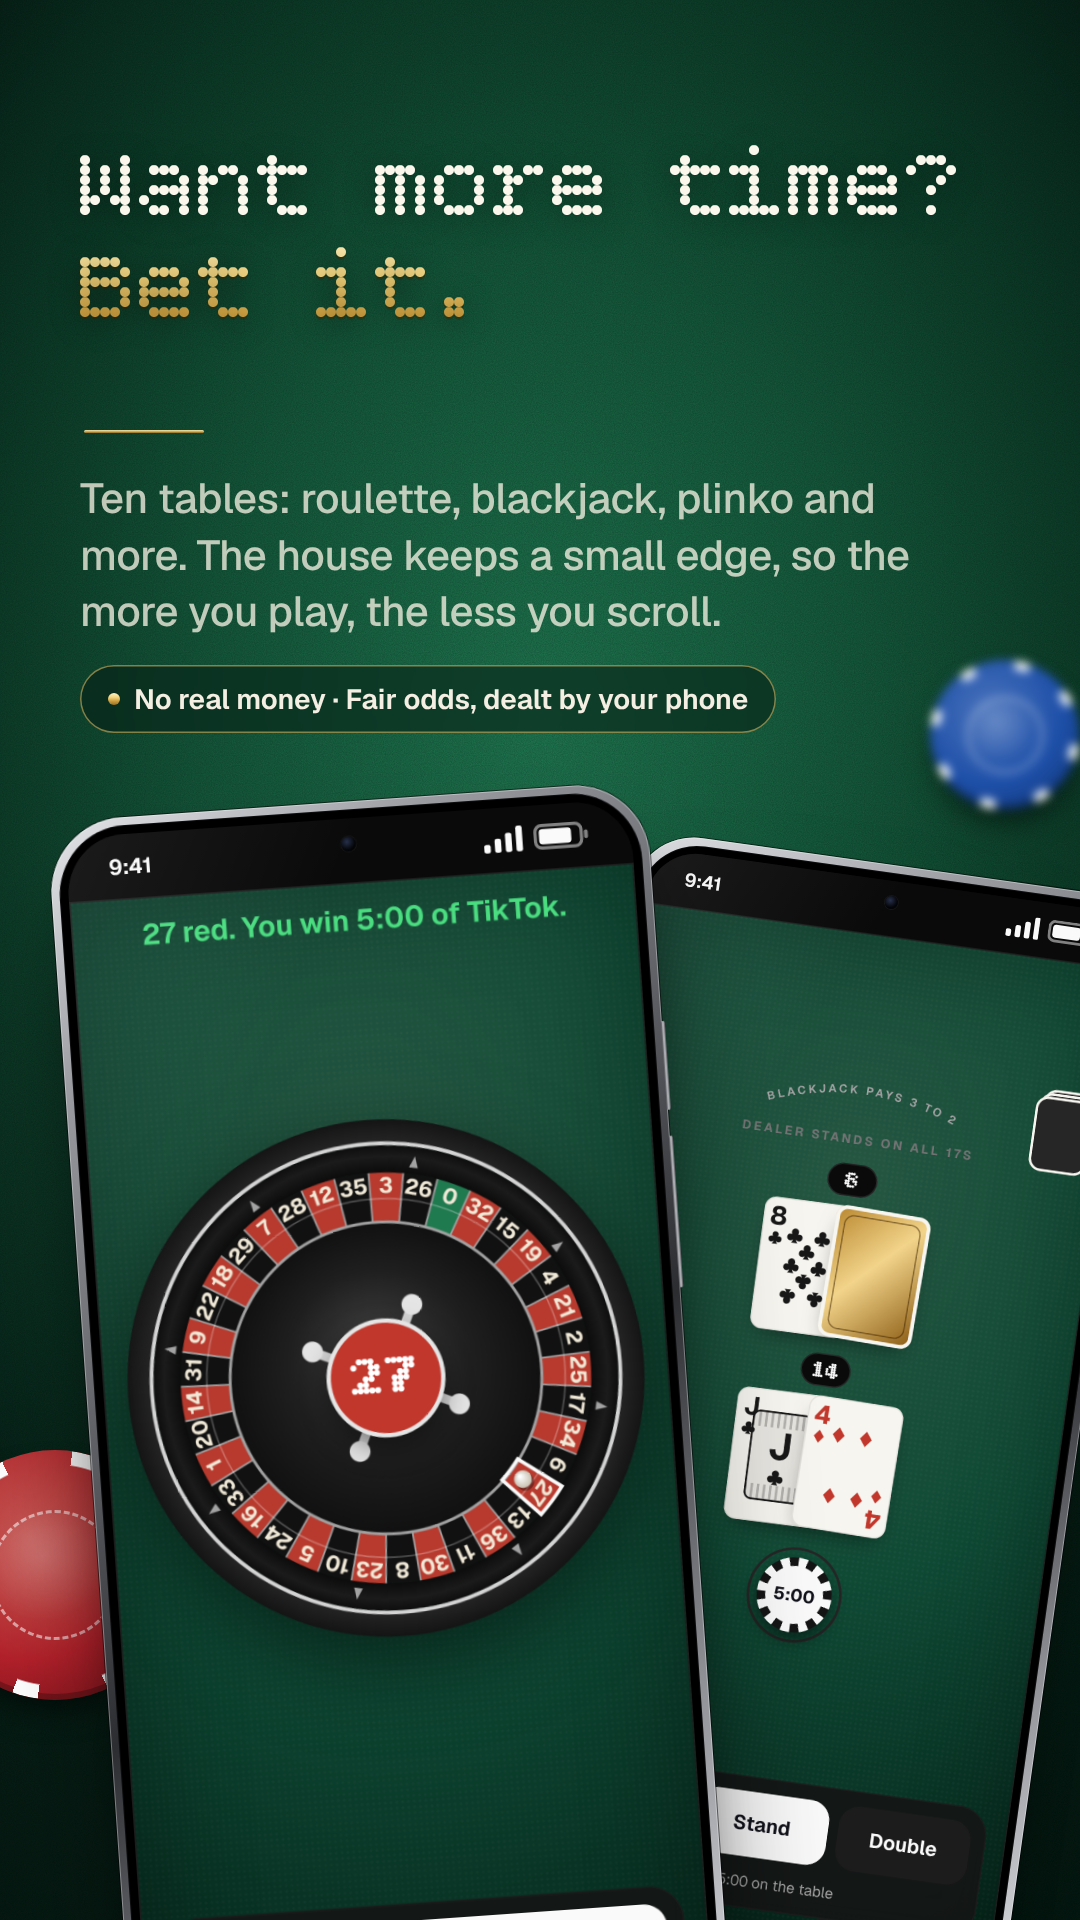
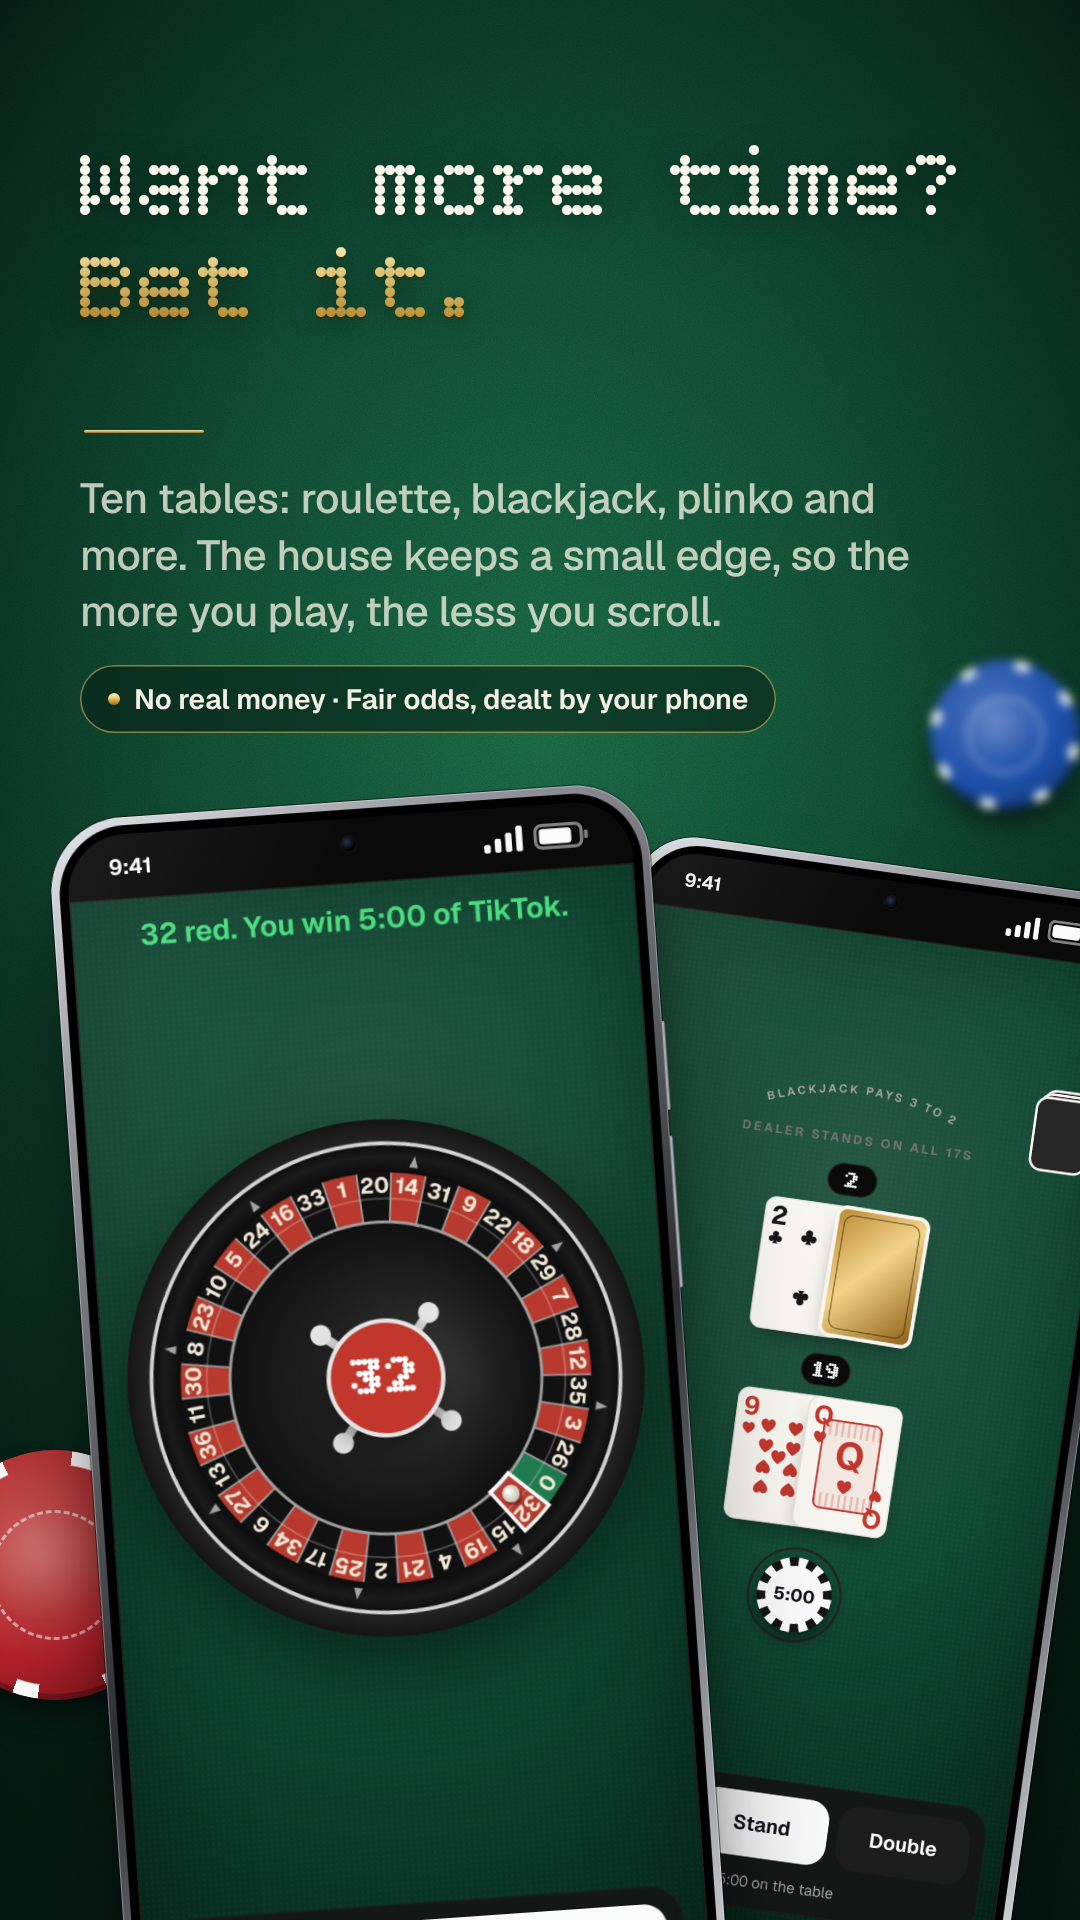
fix: feature graphic text never overlaps; phones fill the frame
Logo, headline and line stacked in one column (headline on two lines). The roulette phone is
larger and runs off the top and bottom so the wheel fills the shot; Home behind it.

Claude-Session: https://claude.ai/code/session_01AKm8sK4KsnpZhCSW1Thtpz

diff --git a/scripts/store-play.js b/scripts/store-play.js
@@ -208,12 +208,13 @@ async function store(b, S) {
 
   // Feature graphic (1024×500)
   await render(b, page(1024, 500, `
-    <div class="z brand" style="left:60px;top:70px;font-size:38px">${LOGO}Ante</div>
-    <p class="z h" style="left:60px;top:145px;font-size:80px;width:560px">Bet your <em>screen time.</em></p>
-    <p class="z s" style="left:60px;top:340px;font-size:24px;width:500px">App limits you can't scroll past, and tables where the house usually wins.</p>
-    ${phone(S.roulette, 650, 50, 270, -6, 3)}
-    ${phone(S.block, 810, 110, 250, 7, 2)}
-    ${chip(560, 380, 150, "#b3202a")}${chip(940, -40, 120, "#16161a", "blur")}`),
+    <div class="z" style="left:60px;top:0;bottom:0;width:560px;display:flex;flex-direction:column;justify-content:center;gap:22px">
+      <div class="brand" style="font-size:38px">${LOGO}Ante</div>
+      <p class="h" style="font-size:60px">Bet your<br><em>screen time.</em></p>
+      <p class="s" style="font-size:24px;width:480px">App limits you can't scroll past, and tables where the house usually wins.</p></div>
+    ${phone(S.home, 800, -110, 300, 9, 2)}
+    ${phone(S.roulette, 590, -150, 360, -7, 3)}
+    ${chip(540, 390, 150, "#b3202a")}${chip(960, 400, 120, "#16161a", "blur")}`),
   1024, 500, path.join(STORE, "feature-graphic.png"));
 
 }
